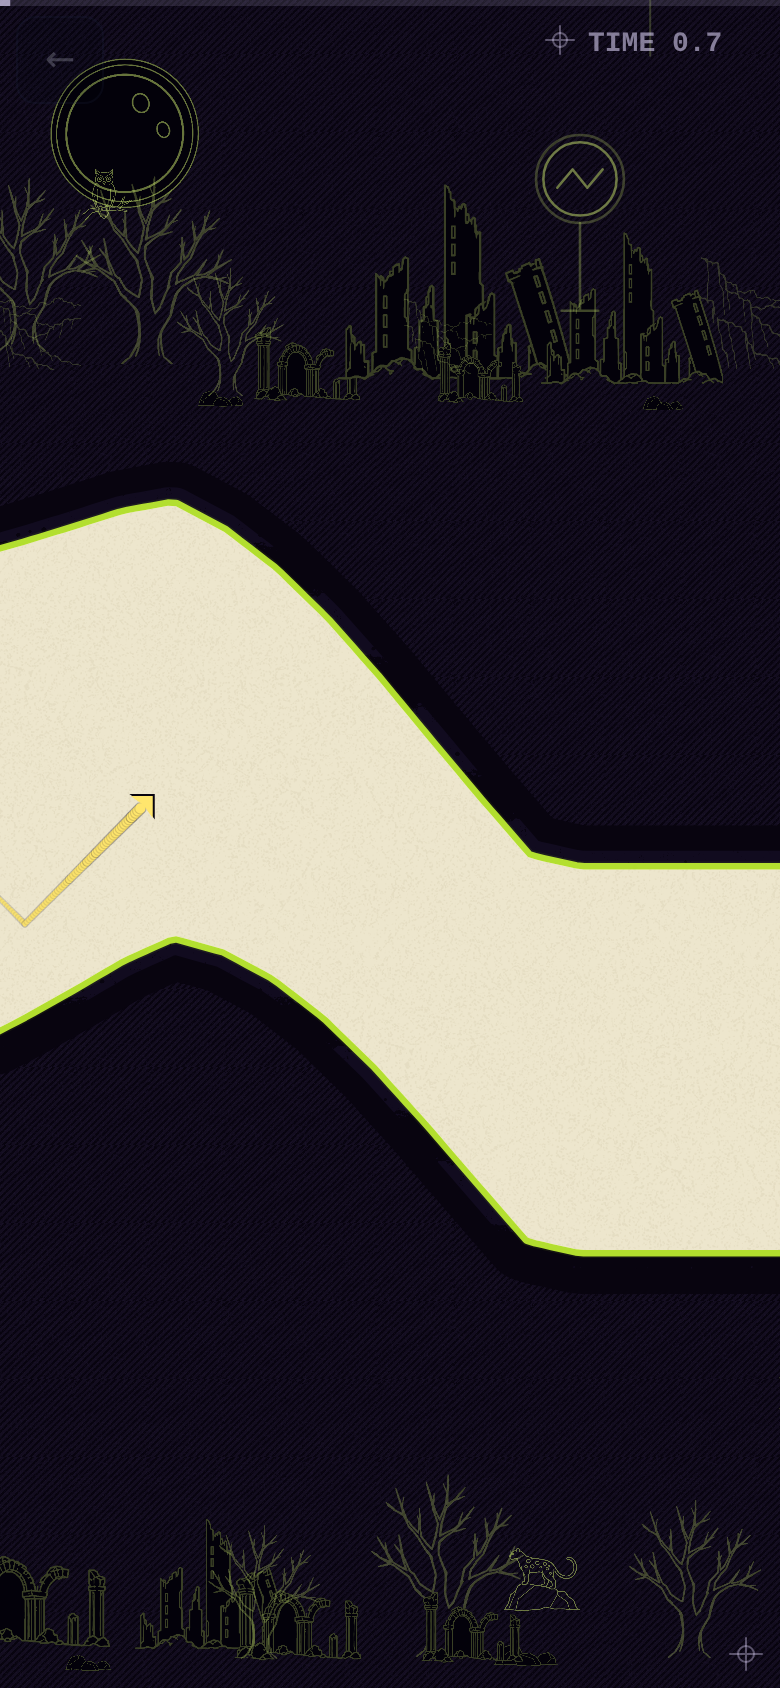
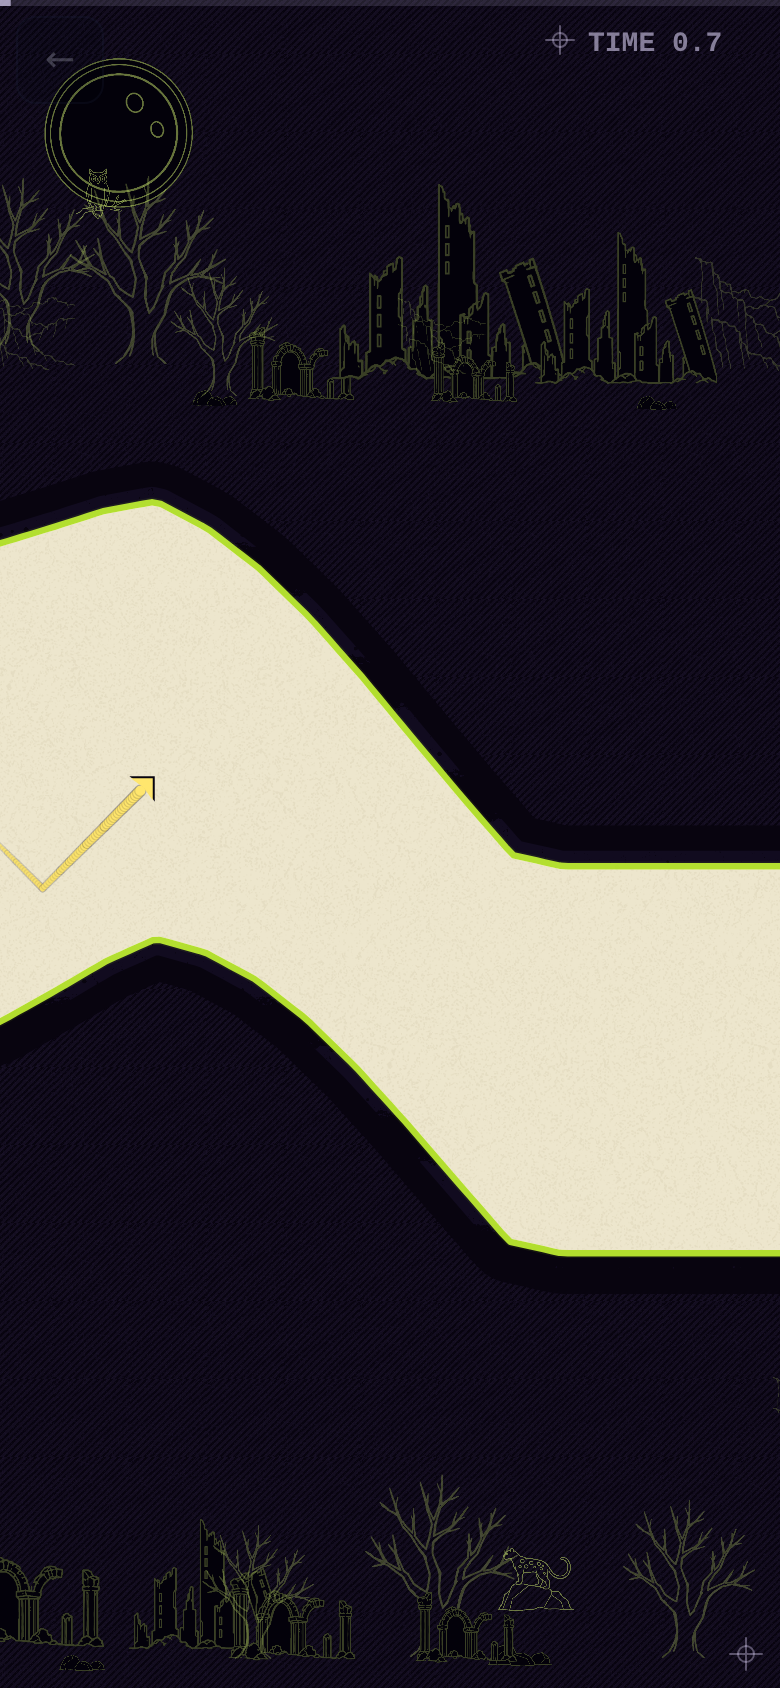
wave-runner: 배경에서 문장과 표지등을 뺀다 — 코드가 지어낸 기호였다
원 안의 파형(문장)과 점·동심원·마스트(표지등)는 시트에 없는 것을 내가 코드로 그려
넣은 것이었다. 게임 세계에 그런 표식이 존재한다는 근거가 어디에도 없어 화면에서
혼자 튀었다 — 폐허와 마른 나무 사이에 도로 표지판이 서 있는 꼴이다.

배경은 있는 것을 그리는 자리이지 설정을 만드는 자리가 아니다. 모티프는 시트에서 온
아홉(계곡·절벽·바위·폐허·무너진 도시·마른 나무·달·부엉이·표범)뿐으로 되돌렸다.

scene.ts 에서 SIGNS 배열과 drawEmblem·drawBeacon 을 지웠고, 컨셉 문서와 GPT
프롬프트에서도 같은 항목을 뺐다(프롬프트에는 "배경에 형광으로 그릴 것은 풍경뿐,
표지·기호·스텐실 없음"을 명시했다).

Claude-Session: https://claude.ai/code/session_01WnA455HqNZKLxy3VdjWgEK

diff --git a/projects/wave-runner/app/src/game/scene.ts b/projects/wave-runner/app/src/game/scene.ts
@@ -1,6 +1,11 @@
 /**
  * # 배경 — 아홉 모티프의 라임 선화
  *
+ * 모티프 아홉은 전부 시트에서 온다 — **코드가 지어낸 기호는 두지 않는다.** 문장과
+ * 표지등을 한때 그려 넣었는데, 게임 세계에 그런 표식이 존재한다는 근거가 어디에도
+ * 없어 화면에서 혼자 튀었다. 배경은 있는 것을 그리는 자리이지 설정을 만드는 자리가
+ * 아니다.
+ *
  * 규칙 셋이 이 파일의 전부다.
  *
  * 1. **선으로만 말한다.** 덩어리에 면이 들어가지만 그 면은 벽보다 **더 어둡다** —
@@ -150,62 +155,6 @@ const REST: Item[] = [
 
 const ITEMS = [...OPENING, ...REST];
 
-/** 표지 — 시트에 없는 둘은 코드가 그린다. 화면 단위 좌표를 쓴다 */
-const SIGNS: Array<{ at: number; y: number; kind: "emblem" | "beacon" }> = [
-  { at: 0.845, y: 0.235, kind: "emblem" },
-  { at: 0.935, y: 0.095, kind: "beacon" },
-  { at: 2.62,  y: 0.180, kind: "emblem" },
-  { at: 3.90,  y: 0.105, kind: "beacon" },
-  { at: 5.40,  y: 0.145, kind: "emblem" },
-  { at: 6.88,  y: 0.120, kind: "beacon" }
-];
-
-/** 원 프레임이 있어야 파형이 궤적으로 오독되지 않는다 */
-function drawEmblem(ctx: CanvasRenderingContext2D, x: number, y: number, r: number, ink: string): void {
-  ctx.strokeStyle = ink;
-  ctx.globalAlpha = D.sign;
-  ctx.lineWidth = Math.max(1, r * 0.07);
-  ctx.beginPath();
-  ctx.arc(x, y, r, 0, Math.PI * 2);
-  ctx.stroke();
-  ctx.globalAlpha = D.sign * 0.5;
-  ctx.beginPath();
-  ctx.arc(x, y, r * 1.2, 0, Math.PI * 2);
-  ctx.stroke();
-  ctx.globalAlpha = D.sign;
-  ctx.beginPath();
-  ctx.moveTo(x - r * 0.62, y + r * 0.24);
-  ctx.lineTo(x - r * 0.2, y - r * 0.26);
-  ctx.lineTo(x + r * 0.2, y + r * 0.24);
-  ctx.lineTo(x + r * 0.62, y - r * 0.26);
-  ctx.stroke();
-  ctx.globalAlpha = D.sign * 0.6;
-  ctx.beginPath();
-  ctx.moveTo(x, y + r * 1.2);
-  ctx.lineTo(x, y + r * 3.6);
-  ctx.moveTo(x - r * 0.5, y + r * 3.6);
-  ctx.lineTo(x + r * 0.5, y + r * 3.6);
-  ctx.stroke();
-}
-
-function drawBeacon(ctx: CanvasRenderingContext2D, x: number, y: number, s: number, ink: string): void {
-  ctx.strokeStyle = ink;
-  ctx.fillStyle = ink;
-  ctx.globalAlpha = D.sign;
-  ctx.beginPath();
-  ctx.arc(x, y, s * 0.3, 0, Math.PI * 2);
-  ctx.fill();
-  ctx.lineWidth = Math.max(1, s * 0.11);
-  ctx.beginPath();
-  ctx.arc(x, y, s, 0, Math.PI * 2);
-  ctx.stroke();
-  ctx.globalAlpha = D.sign * 0.45;
-  ctx.beginPath();
-  ctx.moveTo(x, y + s);
-  ctx.lineTo(x, y + s * 9);
-  ctx.stroke();
-}
-
 /**
  * 배경 한 겹. 통로를 파내는 일은 호출하는 쪽이 한다 — 여기서는 화면 전체에 그리고,
  * `render` 가 침묵 띠와 종이로 덮는다. 순서가 곧 규칙 1과 5의 구현이다.
@@ -269,13 +218,6 @@ export function drawScene(
       if (!line) continue;
       ctx.globalAlpha = it.alpha;
       ctx.drawImage(line, x, y, w, h);
-    }
-    for (const sign of SIGNS) {
-      const x = ox + sign.at * cssW;
-      if (x < -60 || x > cssW + 60) continue;
-      const sy = topGround - (0.40 - sign.y) * cssH;
-      if (sign.kind === "emblem") drawEmblem(ctx, x, sy, cssH * 0.035 * SCALE, ink);
-      else drawBeacon(ctx, x, sy, cssH * 0.012 * SCALE, ink);
     }
   }
   ctx.globalAlpha = 1;

diff --git a/projects/wave-runner/notes/visual-concept-silkscreen.md b/projects/wave-runner/notes/visual-concept-silkscreen.md
@@ -269,13 +269,17 @@
    거짓말이 되살아난다. 먹을 원래 크기로 채우고 노랑을 안쪽에 겹쳐 해결했다
 2. **사망 표시가 크림 종이 위에서 사라졌다.** 흰 X 와 연한 띠는 어두운 바탕에서 읽히던
    것이다. 종이 위에서 읽히는 것은 밝은 것이 아니라 어두운 것이라 둘 다 먹 계열로 내렸다
-3. **배경 구도는 손으로 짜야 한다.** 반복 스트립으로는 "달 앞 가지에 부엉이" 같은
+3. **코드가 지어낸 기호는 두지 않는다.** 한때 문장(원 안의 파형)과 표지등을 그려
+   넣었는데, 게임 세계에 그런 표식이 존재한다는 근거가 어디에도 없어 화면에서 혼자
+   튀었다. 배경은 있는 것을 그리는 자리이지 설정을 만드는 자리가 아니다. 모티프는
+   시트에서 온 아홉뿐이다
+4. **배경 구도는 손으로 짜야 한다.** 반복 스트립으로는 "달 앞 가지에 부엉이" 같은
    관계가 만들어지지 않는다. 일곱 화면 중 첫 화면을 목표 구도로 박았고, 한 판이 약
    7.5화면이라 같은 장면이 두 번 지나가지 않는다
-4. **면은 선화에서 뽑되 새는 것을 검사한다.** 테두리에서 flood fill 해 바깥에 닿지 않는
+5. **면은 선화에서 뽑되 새는 것을 검사한다.** 테두리에서 flood fill 해 바깥에 닿지 않는
    빈칸을 면으로 치고, 면적이 빈칸의 85% 를 넘으면 버린다 — 열린 도형(마른 나무)이
    자동으로 탈락한다
-5. **통로를 파내는 순서**가 규칙 1과 5의 구현이다. 벽을 두 폴리곤으로 칠하는 대신 화면을
+6. **통로를 파내는 순서**가 규칙 1과 5의 구현이다. 벽을 두 폴리곤으로 칠하는 대신 화면을
    먹으로 덮고 통로를 파내면, 결이 통로 안으로 새는 일이 구조적으로 불가능해진다
 
 ## 시안과 대조해 고친 것 (0.9.0 마감)
